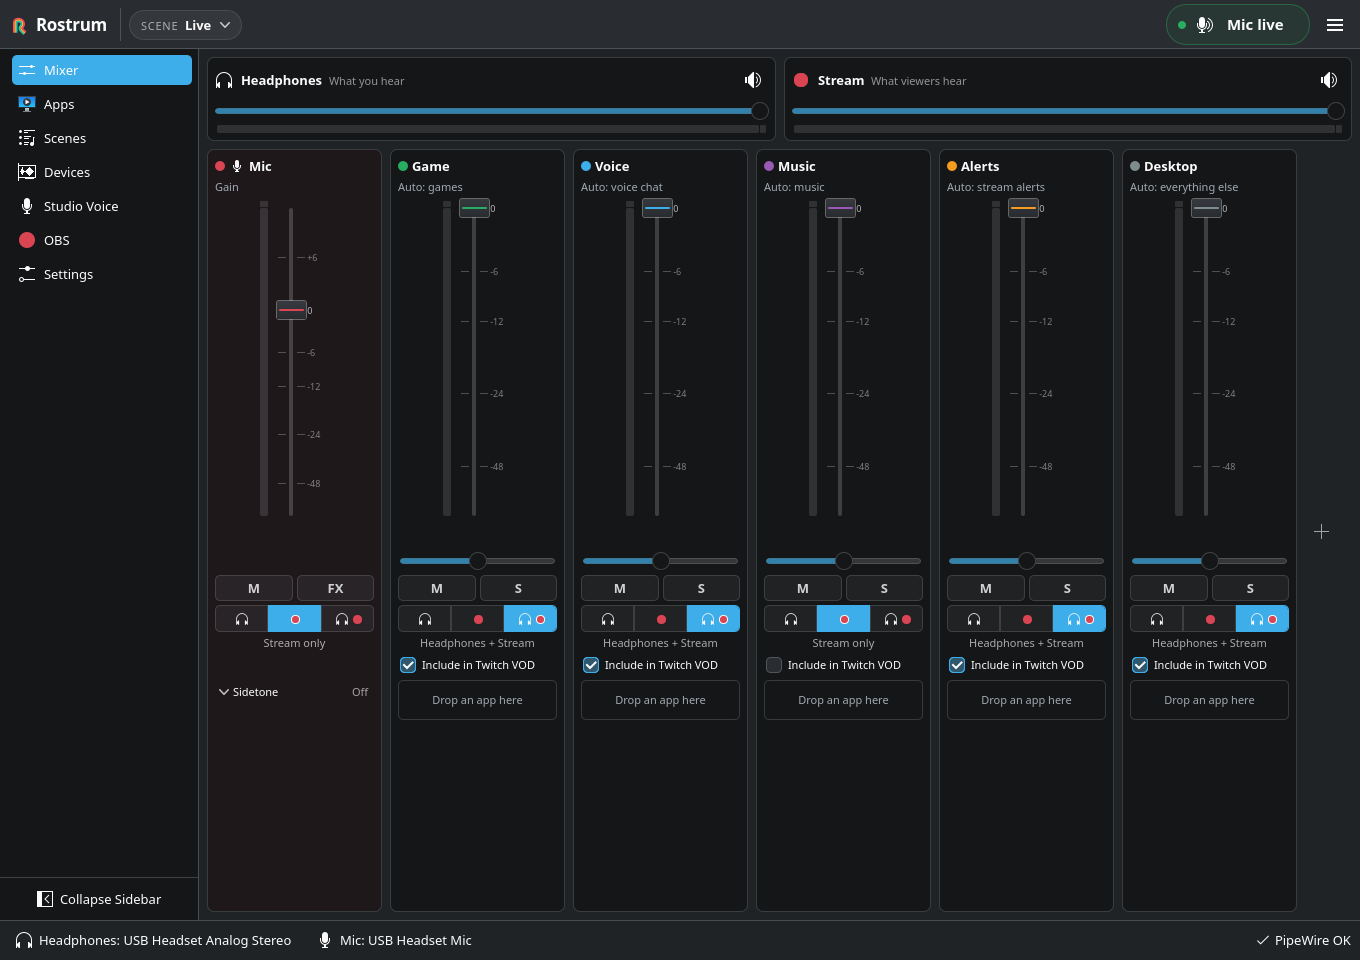
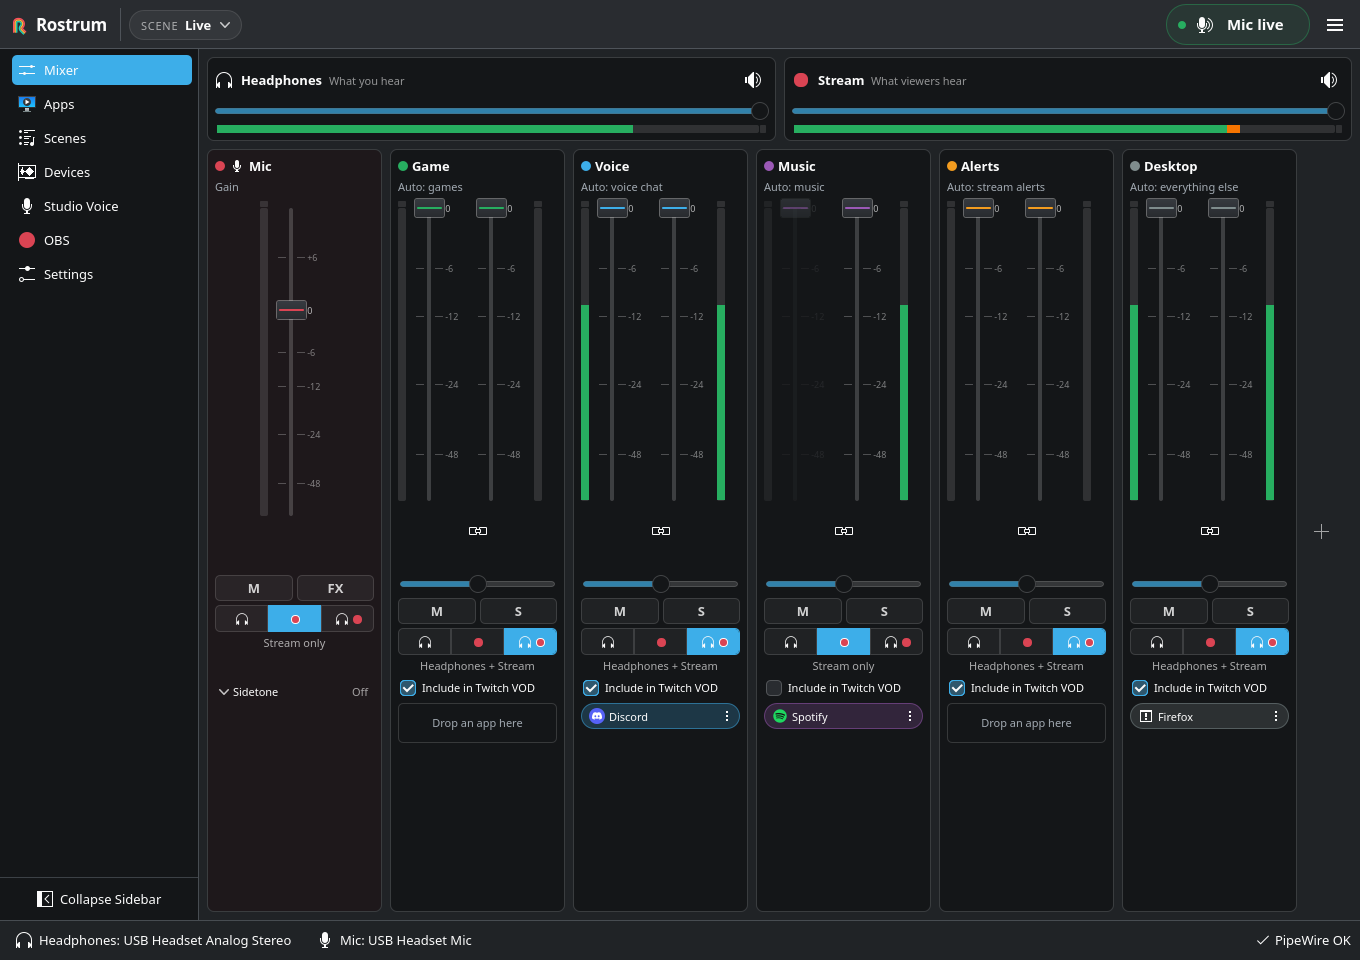
Docs: per-mix levels and PipeWire 1.4 on the site
Describe Headphones and Stream faders on each playback bus, raise the
source build minimum to PipeWire 1.4, and refresh the Mixer screenshot.

diff --git a/index.html b/index.html
@@ -4,7 +4,7 @@
   <meta charset="utf-8">
   <meta name="viewport" content="width=device-width, initial-scale=1">
   <title>Rostrum: a stream mix console for Linux</title>
-  <meta name="description" content="Rostrum splits your game, voice chat, mic, music, alerts and desktop audio into buses, each sent to your headphones, your stream, or both, with optional mic noise removal. Free and open source, for Linux with PipeWire.">
+  <meta name="description" content="Rostrum splits your game, voice chat, mic, music, alerts and desktop audio into buses, each with Headphones and Stream levels, sent to your headphones, your stream, or both, with optional mic noise removal. Free and open source, for Linux with PipeWire.">
   <meta name="color-scheme" content="light dark">
   <meta name="theme-color" content="#f4f1ea" media="(prefers-color-scheme: light)">
   <meta name="theme-color" content="#14151c" media="(prefers-color-scheme: dark)">
@@ -15,7 +15,7 @@
   <meta property="og:type" content="website">
   <meta property="og:site_name" content="Rostrum">
   <meta property="og:title" content="Rostrum: a stream mix console for Linux">
-  <meta property="og:description" content="Mix Linux audio for headphones, live streams and Twitch VODs, with separate OBS recording tracks.">
+  <meta property="og:description" content="Mix Linux audio with Headphones and Stream levels per bus, for live streams and Twitch VODs, with separate OBS recording tracks.">
   <meta property="og:url" content="https://getrostrum.dev/">
   <meta property="og:image" content="https://getrostrum.dev/images/social-preview.png">
   <meta property="og:image:width" content="1280">
@@ -54,9 +54,9 @@
         </h1>
         <p class="tagline">A stream mix console for Linux, not a patchbay.</p>
         <p class="lede">
-          Mix game, voice chat, mic, music, alerts and desktop audio in one window. Choose what
-          reaches headphones, the live stream and the Twitch VOD. Record individual buses on
-          separate OBS tracks when you need their audio on its own.
+          Mix game, voice chat, mic, music, alerts and desktop audio in one window. Set a Headphones
+          level and a Stream level on each playback bus, choose what reaches the Twitch VOD, and
+          record individual buses on separate OBS tracks when you need their audio on its own.
         </p>
         <div class="actions">
           <a class="button button-primary" href="https://github.com/rostrum-audio/rostrum/releases/download/v0.3.0/Rostrum-0.3.0-x86_64.AppImage">Download 0.3.0 AppImage</a>
@@ -67,8 +67,8 @@
         <figure class="shot hero-shot">
           <button class="zoom" type="button" popovertarget="view-mixer">
             <span class="visually-hidden">Enlarge screenshot:</span>
-            <img src="images/mixer.png?v=eb919142" width="1360" height="960"
-                 alt="The Rostrum 0.3.0 mixer in a demo session, with Include in Twitch VOD checked on Game and unchecked on Music. Headphones and Stream masters are above the Mic strip and five bus strips.">
+            <img src="images/mixer.png?v=f54cd353" width="1360" height="960"
+                 alt="The Rostrum mixer in a demo session: Headphones and Stream masters above the Mic strip and five playback strips, each with linked Headphones and Stream faders. Include in Twitch VOD is checked on Game and unchecked on Music.">
           </button>
         </figure>
       </div>
@@ -92,11 +92,11 @@
         <div class="compare">
           <div>
             <h3>A bus for each source</h3>
-            <p>Each source gets a named bus with a fader and a meter. No ports to connect by hand.</p>
+            <p>Each source gets a named bus with meters and levels. Playback buses have Headphones and Stream faders, linked so they move together until you unlink them. No ports to connect by hand.</p>
           </div>
           <div>
             <h3>Headphones, live stream and VOD</h3>
-            <p>Set headphone and stream destinations per bus, then choose which buses stay in the Twitch VOD.</p>
+            <p>Set headphone and stream destinations and levels per bus, then choose which buses stay in the Twitch VOD.</p>
           </div>
         </div>
       </div>
@@ -109,11 +109,11 @@
         <ul class="features">
           <li>
             <h3>Six buses to start</h3>
-            <p>Mic, Game, Voice, Music, Alerts and Desktop, each with a fader and mute. Every playback bus gets solo. Add more, up to twelve.</p>
+            <p>Mic, Game, Voice, Music, Alerts and Desktop, each with mute. Every playback bus gets solo plus a Headphones fader and a Stream fader, linked by default. Add more, up to twelve.</p>
           </li>
           <li>
             <h3>Headphones and Stream mixes</h3>
-            <p>Send each bus to your headphones, the stream, or both. Headphones Only removes Stream Mix sends; Stream Only removes headphone sends. Independent OBS captures can bypass these exclusions.</p>
+            <p>Send each bus to your headphones, the stream, or both, at its own level for each mix. Headphones Only removes Stream Mix sends; Stream Only removes headphone sends. Independent OBS captures can bypass these exclusions.</p>
           </li>
           <li>
             <h3>Twitch VOD mix</h3>
@@ -185,7 +185,7 @@
           </li>
           <li>
             <h3>Compact view</h3>
-            <p>A small mixer with your mic, scene, masters and a slim fader per bus that can stay on top of a game or OBS.</p>
+            <p>A small mixer with your mic, scene, masters and a slim fader per bus (moving both mix levels together) that can stay on top of a game or OBS.</p>
           </li>
           <li>
             <h3>Undo and backups</h3>
@@ -388,10 +388,10 @@ chmod +x Rostrum-0.3.0-x86_64.AppImage
         <h3>Build from source</h3>
         <p>
           <a href="https://github.com/rostrum-audio/rostrum#build-from-source">Source-build instructions</a>
-          cover Ubuntu, Fedora and Arch. Source minimums are PipeWire 1.0+, WirePlumber 0.5+,
-          Qt 6.5+ and KDE Frameworks 6.8+; Studio Voice needs PipeWire 1.4+ audio-convert support.
-          These are not the AppImage’s validated compatibility matrix. Source-build CI passes
-          on Fedora and Arch do not validate this AppImage on those systems.
+          cover Ubuntu, Fedora and Arch. Source minimums are PipeWire 1.4+, WirePlumber 0.5+,
+          Qt 6.5+ and KDE Frameworks 6.8+. These are not the AppImage’s validated compatibility
+          matrix. Source-build CI passes on Fedora and Arch do not validate this AppImage on those
+          systems.
         </p>
         </div>
       </div>
@@ -430,7 +430,7 @@ chmod +x Rostrum-0.3.0-x86_64.AppImage
     <div class="lightbox" id="view-mixer" popover>
       <button type="button" popovertarget="view-mixer" popovertargetaction="hide">
         <span class="visually-hidden">Close the enlarged screenshot</span>
-        <img src="images/mixer.png?v=eb919142" width="1360" height="960" alt="">
+        <img src="images/mixer.png?v=f54cd353" width="1360" height="960" alt="">
         <span class="lightbox-close" aria-hidden="true">✕</span>
       </button>
     </div>
